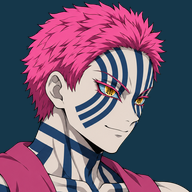
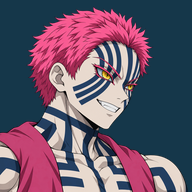
feat(art): 猗窝座头像与立绘按 v3 重画
- HUD 头像（也是 MAX 头像特写）、菜单头像、觉醒头像和选人立绘原来都是 roster-v1：胸像眼睛里有字，觉醒头像自带深蓝背景和雪花。
- portraits.py：提示词里的“羽织”“刀”改为按角色填写（garment、weapon_label、bust_rule、inside），默认值就是原文，善逸的 4 条提示词逐字不变；猗窝座的参考图用加强上半身后的待机图。
- 任务组 portraits 生成胸像、全身各两张候选；选定胸像 1（金色竖瞳、眼中无字）和全身 2（拳斗架势，脸朝四分之三）。胸像候选 2 的眼睛里有字，没有采用。
- 导入：battle-portrait 按善逸的构图放置，菜单头像沿用深青底 #15374a，觉醒头像用与觉醒精灵帧相同的调色（背景透明），立绘朝右（akaza.tres 原本就是 portrait_faces_right）。来源和哈希记录在 portraits.json。

diff --git a/tools/art_v3/portraits.py b/tools/art_v3/portraits.py
@@ -33,11 +33,11 @@ Asset type: premium hand-inked anime fighting-game HUD portrait and MAX super cu
 Input image 1: APPROVED MODEL SHEET. Exact identity, costume construction and colours.
 Input image 2: APPROVED IDLE POSE. Exact line weight, rendering and colours of the in-game sprites.
 Input image 3: OLD PORTRAIT. Framing reference only (head and shoulders filling a square); its colours and face are outdated, follow input images 1 and 2.
-Primary request: ONE bust portrait in three-quarter view, head and shoulders turned and looking slightly to the RIGHT toward an off-screen opponent. The head is large in the frame: the face in the upper middle, the chin at about 60 percent of the image height, the shoulders and the top of the haori filling the bottom edge. ALL of the hair stays inside the image with a 6 percent margin at the top and both sides.
+Primary request: ONE bust portrait in three-quarter view, head and shoulders turned and looking slightly to the RIGHT toward an off-screen opponent. The head is large in the frame: the face in the upper middle, the chin at about 60 percent of the image height, the shoulders and the top of the {garment} filling the bottom edge. ALL of the hair stays inside the image with a 6 percent margin at the top and both sides.
 Expression: {expression}
 Identity: {identity}
 Rendering: {style} Detailed hair locks, a clean luminous face, the same colours as input image 1.
-Constraints: no text, no frame, no effects (no {effects}), no sword in front of the face. Pure solid {background} background everywhere.
+Constraints: no text, no frame, no effects (no {effects}), {bust_rule}. Pure solid {background} background everywhere.
 """
 
 FULL_PROMPT = """Use case: identity-preserve
@@ -46,9 +46,9 @@ Input image 1: APPROVED MODEL SHEET. Exact identity, costume construction, colou
 Input image 2: APPROVED IDLE POSE. Exact line weight, rendering and colours of the in-game sprites.
 Input image 3: OLD SELECT PORTRAIT. Composition reference only (one tall full-body figure filling the frame); its colours, eyes and pose are outdated, follow input images 1 and 2.
 Primary request: ONE full-body figure in three-quarter view, body and face turned to the RIGHT toward an off-screen opponent. {pose}
-Framing: the figure fills the image height from the top of the hair to the soles with a 3 percent margin; the whole figure, the haori and the katana stay inside the image. Normal adult proportions, never chibi.
+Framing: the figure fills the image height from the top of the hair to the soles with a 3 percent margin; the whole figure, {inside} stay inside the image. Normal adult proportions, never chibi.
 Expression: {expression}
-Katana: {katana}
+{weapon_label}: {katana}
 Identity: {identity}
 Rendering: {style} Detailed hair locks and fabric folds, the same colours as input image 1.
 Constraints: no text, no frame, no floor, no shadow, no effects (no {effects}). Pure solid {background} background everywhere.
@@ -66,7 +66,23 @@ CHARACTERS = {
                 'his hip), the white-and-gold hilt with its round gold guard points FORWARD (to the RIGHT) in front of his belly.'),
         avatar_background='#403326',
     ),
+    'akaza': dict(
+        expression=('a confident, cruel grin that shows his teeth; golden-yellow eyes with small dark pupils (no writing in the eyes) '
+                    'fixed on the opponent; fearless and eager for the fight.'),
+        pose=('He stands in his brawler guard exactly as in input image 2: feet wide apart, knees bent, torso leaning slightly forward, '
+              'both navy hands raised in front of his chest as half-closed claws, elbows out; the navy sash ends hang in front of the '
+              'white trousers.'),
+        katana=('he is UNARMED: no sword, no scabbard and no weapon of any kind; both hands are bare, entirely navy-blue (the tattoo '
+                'covers them) with red fingernails.'),
+        weapon_label='Hands', garment='magenta vest', bust_rule='no weapon, no hands in front of the face',
+        inside='both hands and the sash ends', heads=7,
+        # The idle key with the slightly stronger upper body (checkpoint 4 review).
+        key='output/imagegen/akaza-v3/references/approved-idle-key-v2.png',
+        avatar_background='#15374a',
+    ),
 }
+# Template words that differ per character; the defaults are Zenitsu's (and Tanjiro's) original text.
+DEFAULTS = dict(weapon_label='Katana', garment='haori', bust_rule='no sword in front of the face', inside='the haori and the katana')
 
 
 def prepare(args):
@@ -76,9 +92,10 @@ def prepare(args):
     jobs = read(out / 'jobs.json', [])
     known = {job['id'] for job in jobs}
     references = ['output/imagegen/%s-v3/raw/%s-v3-model.png' % (args.character, args.character),
-                  'output/imagegen/%s-v3/references/approved-idle-candidate.png' % args.character]
-    fields = dict(name=data['name'], identity=data['identity'], style=data['style'], background=data['background_name'],
-                  effects=data['prompt']['effects'], heads=data['canon'].get('heads', 6.5), **extra)
+                  extra.get('key', 'output/imagegen/%s-v3/references/approved-idle-candidate.png' % args.character)]
+    fields = dict(DEFAULTS, name=data['name'], identity=data['identity'], style=data['style'], background=data['background_name'],
+                  effects=data['prompt']['effects'], heads=data['canon'].get('heads', 6.5))
+    fields.update({k: v for k, v in extra.items() if k not in ('key', 'avatar_background')})
     added = 0
     for kind, template, size, old in [('bust', BUST_PROMPT, '1024x1024', 'battle-portrait.png'),
                                       ('full', FULL_PROMPT, '1024x1536', 'portrait.png')]:

diff --git a/docs/art-pipeline-v3.md b/docs/art-pipeline-v3.md
@@ -163,6 +163,8 @@
 | `awakening/portrait.png` | 胸像 | 512×512，过一遍 `awaken.py`，与觉醒精灵帧同一种调色 |
 | `portrait.png` | 全身 | 四周留 12px；新立绘朝右，`resources/characters/zenitsu.tres` 设 `portrait_faces_right = true` |
 
+猗窝座（2026-10-17）：照同样的做法重画，任务组 `portraits` 记录在 `output/imagegen/akaza-v3/portraits.json`。旧图是 roster-v1：胸像眼睛里有字，觉醒头像自带深蓝背景和雪花。`portraits.py` 的提示词把“羽织”“刀”改成按角色填写（`garment`、`weapon_label`、`bust_rule`、`inside`），默认值就是原文，善逸的 4 条提示词逐字不变；参考图用加强上半身后的待机图 `approved-idle-key-v2.png`。选定胸像候选 1（金色竖瞳、眼中无字）和全身候选 2（拳斗架势，脸朝四分之三），候选 2 的胸像眼中有字，没有采用。菜单头像沿用旧的深青底 #15374a，觉醒头像背景透明，与善逸一致。
+
 奥义和 MAX 命中后的演出视频（`art/cinematics/`）是原作《火之神血风谭》的实机画面，不属于本管线，四个角色都保留原样；视频后的地图收尾用的是 v3 精灵帧，帧号不变。
 
 ## 定稿（猗窝座，检查点 ①）
